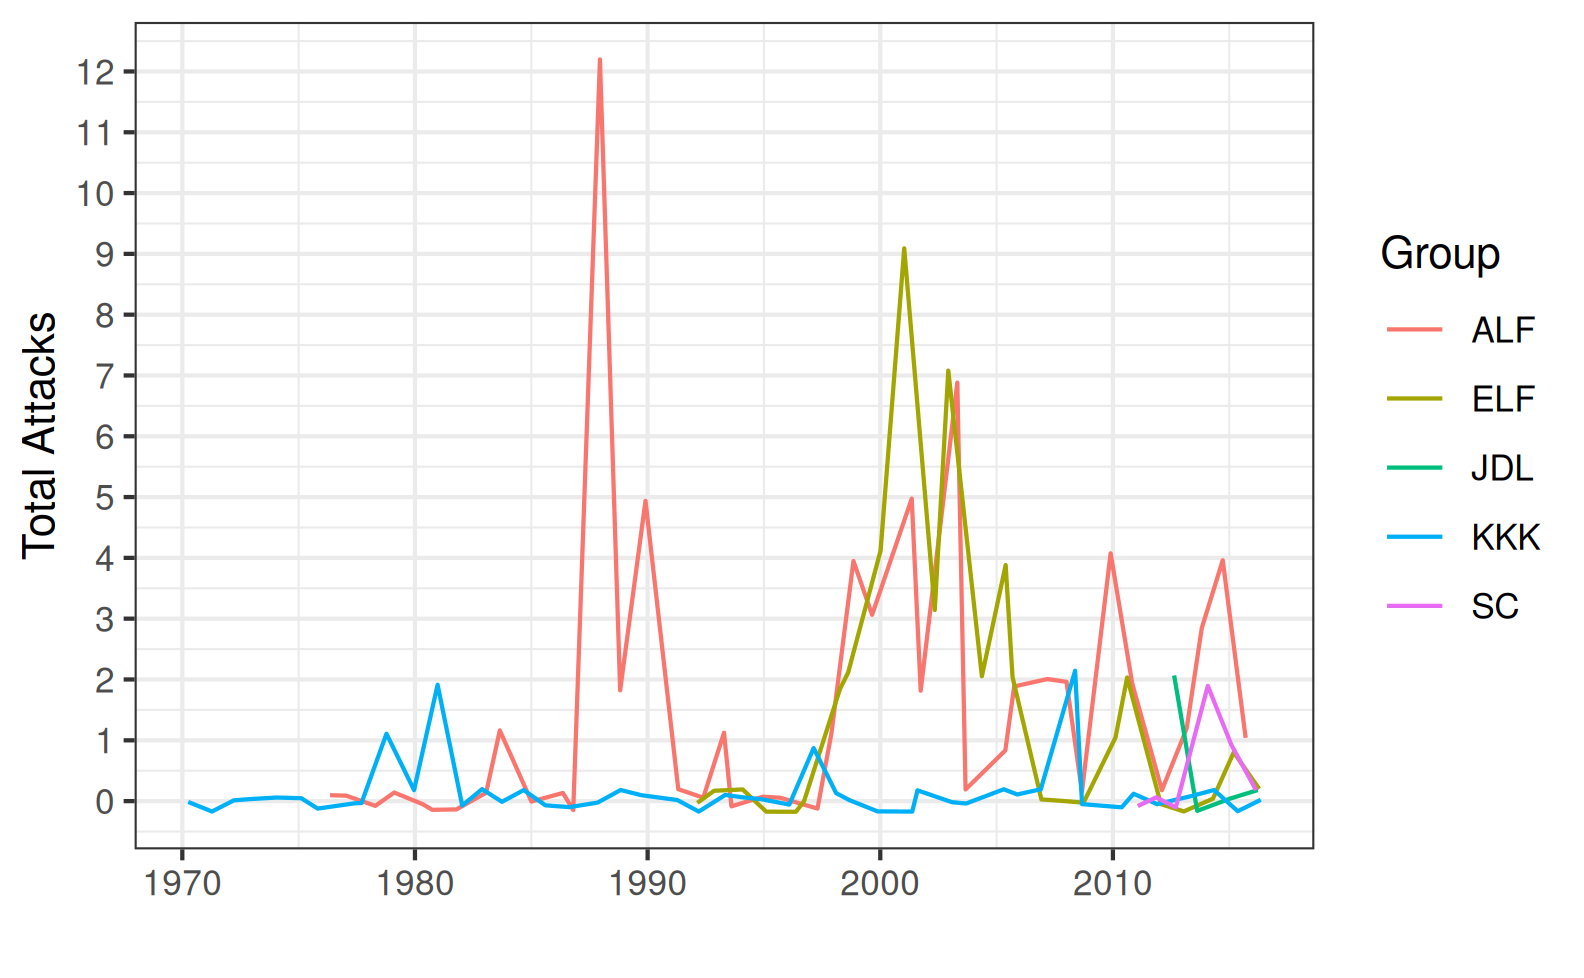
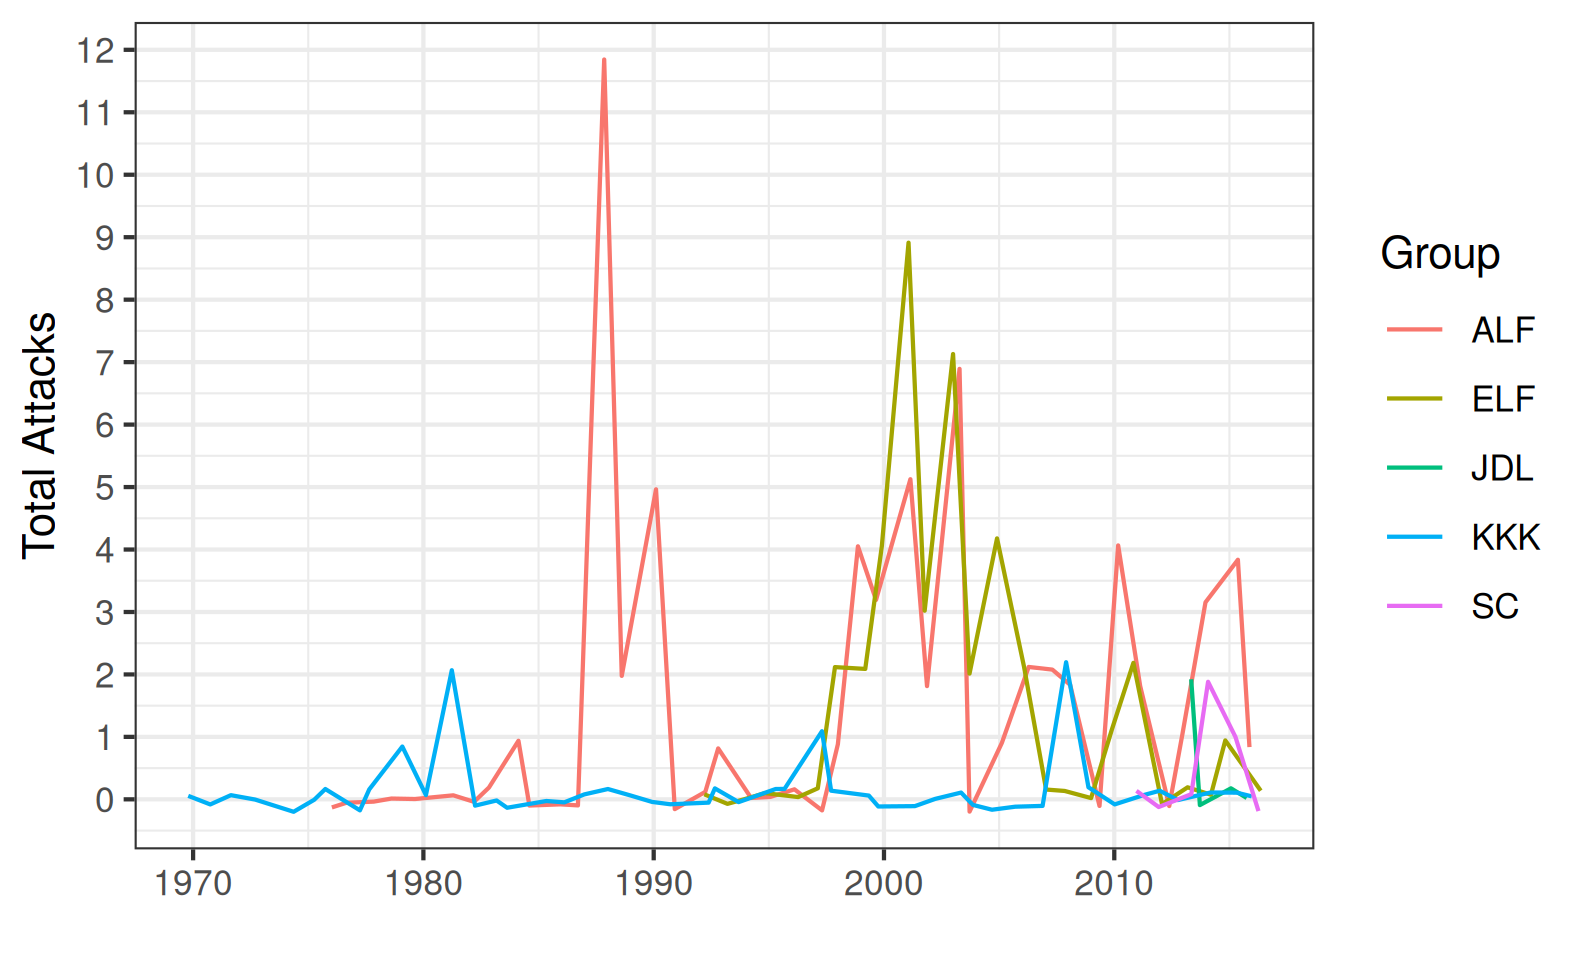
Tweaks in class

diff --git a/12-2-Pape_Suicide_Terrorism.html b/12-2-Pape_Suicide_Terrorism.html
@@ -599,7 +599,37 @@
           display:block!important;
       }</style></aside>
 </section>
-<section id="section-5" class="slide level2 center smaller" data-background-image="Images/00-Leviathan_Cover_55.png">
+<section id="section-5" class="slide level2 center" data-background-image="Images/00-Leviathan_Cover_55.png">
+<h2></h2>
+<p><strong>Interests</strong></p>
+<ul>
+<li>Non-state actors → Change in government policy</li>
+</ul>
+<p><strong>Institutions</strong></p>
+<ul>
+<li>?</li>
+</ul>
+<p><strong>Interactions</strong></p>
+<ul>
+<li>?</li>
+</ul>
+</section>
+<section id="section-6" class="slide level2 center" data-background-image="Images/00-Leviathan_Cover_55.png">
+<h2></h2>
+<p><strong>Interests</strong></p>
+<ul>
+<li>Non-state actors → Change in government policy</li>
+</ul>
+<p><strong>Institutions</strong></p>
+<ul>
+<li>If weaker than the target non-state actors may employ a strategy of terrorism: Demonstrative, Destructive or Suicide</li>
+</ul>
+<p><strong>Interactions</strong></p>
+<ul>
+<li>?</li>
+</ul>
+</section>
+<section id="section-7" class="slide level2 center smaller" data-background-image="Images/00-Leviathan_Cover_55.png">
 <h2></h2>
 <p><strong>Interests</strong></p>
 <ul>
@@ -650,7 +680,7 @@
           display:block!important;
       }</style></aside>
 </section>
-<section id="section-6" class="slide level2 center" data-background-image="Images/00-Leviathan_Cover_55.png">
+<section id="section-8" class="slide level2 center" data-background-image="Images/00-Leviathan_Cover_55.png">
 <h2></h2>
 <div class="r-fit-text">
 <p><strong>“Five Principal Findings” (Pape 2003)</strong></p>
@@ -688,7 +718,7 @@
           display:block!important;
       }</style></aside>
 </section>
-<section id="section-7" class="slide level2 center" data-background-image="Images/00-Leviathan_Cover_55.png">
+<section id="section-9" class="slide level2 center" data-background-image="Images/00-Leviathan_Cover_55.png">
 <h2></h2>
 
 <img data-src="Images/13_2-Pape_Table1.png" style="display: block; margin: 0 auto" class="r-stretch"><aside class="notes">
@@ -717,7 +747,7 @@
           display:block!important;
       }</style></aside>
 </section>
-<section id="section-8" class="slide level2 center" data-background-image="Images/00-Leviathan_Cover_55.png">
+<section id="section-10" class="slide level2 center" data-background-image="Images/00-Leviathan_Cover_55.png">
 <h2></h2>
 
 <img data-src="Images/13_2-Pape_Table2.png" style="display: block; margin: 0 auto" class="r-stretch"><aside class="notes">
@@ -749,7 +779,7 @@
           display:block!important;
       }</style></aside>
 </section>
-<section id="section-9" class="slide level2 center" data-background-image="Images/00-Leviathan_Cover_55.png">
+<section id="section-11" class="slide level2 center" data-background-image="Images/00-Leviathan_Cover_55.png">
 <h2></h2>
 <div class="r-fit-text">
 <p><strong>“The Crucial Case of Hamas” (p352-355)</strong></p>
@@ -781,7 +811,7 @@
           display:block!important;
       }</style></aside>
 </section>
-<section id="section-10" class="slide level2 center" data-background-image="Images/00-Leviathan_Cover_55.png">
+<section id="section-12" class="slide level2 center" data-background-image="Images/00-Leviathan_Cover_55.png">
 <h2></h2>
 <div class="r-fit-text">
 <p><strong>“Five Principal Findings” (Pape 2003)</strong></p>

diff --git a/11-2-GTD.html b/11-2-GTD.html
@@ -393,13 +393,16 @@
 <li><strong>Focusing just on the methodology, what are the pros and cons of using this as our primary database of terrorism?</strong></li>
 </ul>
 <p><br></p>
+<p>So many cons…</p>
 <p>Pros:</p>
 <ul>
-<li>?</li>
+<li>Very US government / US military focused perspective on the problem (if your goal is to view terrorism through that lens)</li>
 </ul>
 <p>Cons:</p>
 <ul>
-<li>?</li>
+<li>Not currently being updated</li>
+<li>Not clear on sourcing of data or robustness checks</li>
+<li>Lots of inconsistencies in the database (group names change coding)</li>
 </ul>
 <p><br></p>
 <p><strong>SLIDE</strong>: And what does the RAND database tell us about terrorism?</p>

diff --git a/11-3-EDTG.html b/11-3-EDTG.html
@@ -344,6 +344,7 @@
 <p>Prep for Class</p>
 <ol type="1">
 <li><p>Review submissions on Canvas</p></li>
+<li><p>Open data exploration R file so you can follow along with the groups’ work</p></li>
 <li><p>Readings</p>
 <ul>
 <li>Hou, D., Gaibulloev, K., &amp; Sandler, T. (2020). Introducing , 1970 to 2016. Journal of Conflict Resolution, 64(1), 199–225.</li>

diff --git a/12-1-Terrorism_Success_Cases.html b/12-1-Terrorism_Success_Cases.html
@@ -451,7 +451,10 @@
 </ol></li>
 </ul>
 <p><br></p>
-<p><em>Split into small groups (3-4)</em></p>
+<p><em>Let’s split the class into four groups (for board space)</em></p>
+<ul>
+<li>Go sit with your group</li>
+</ul>
 <style type="text/css">
         span.MJX_Assistive_MathML {
           position:absolute!important;
